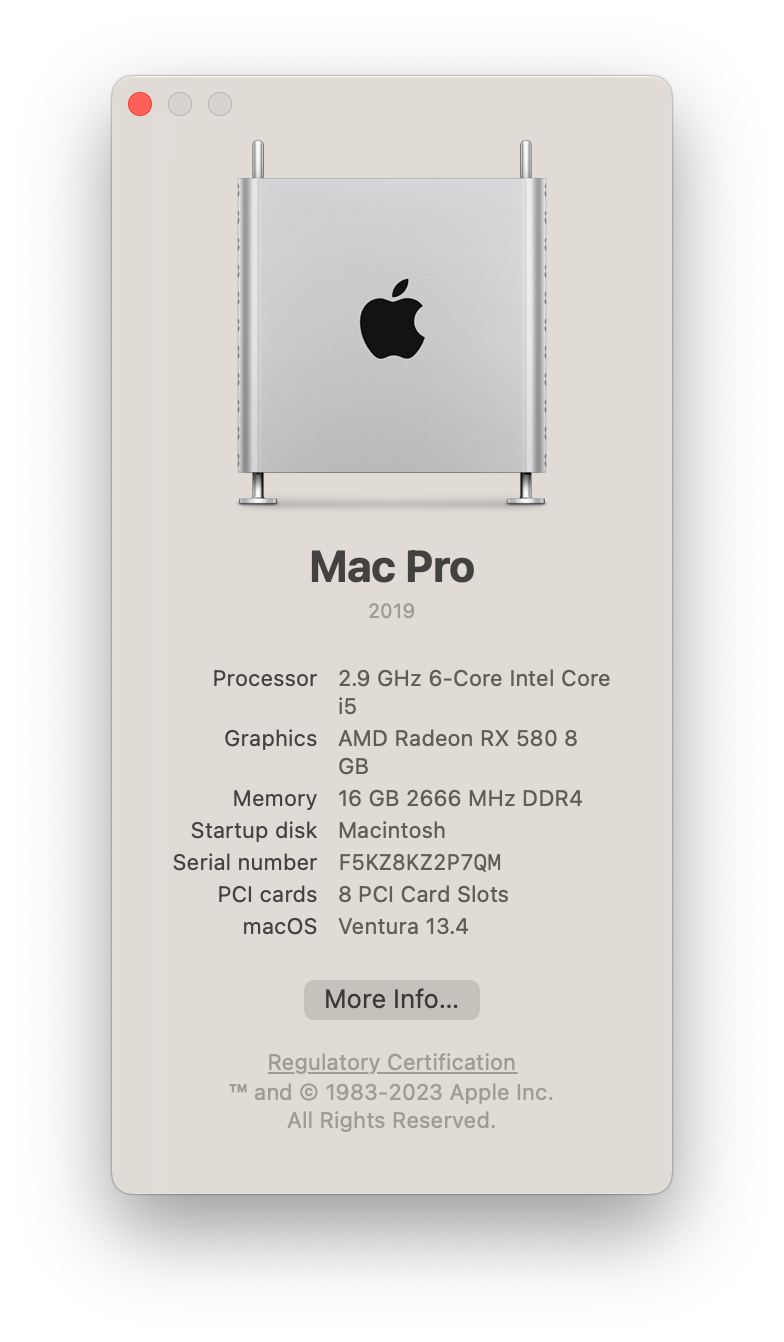
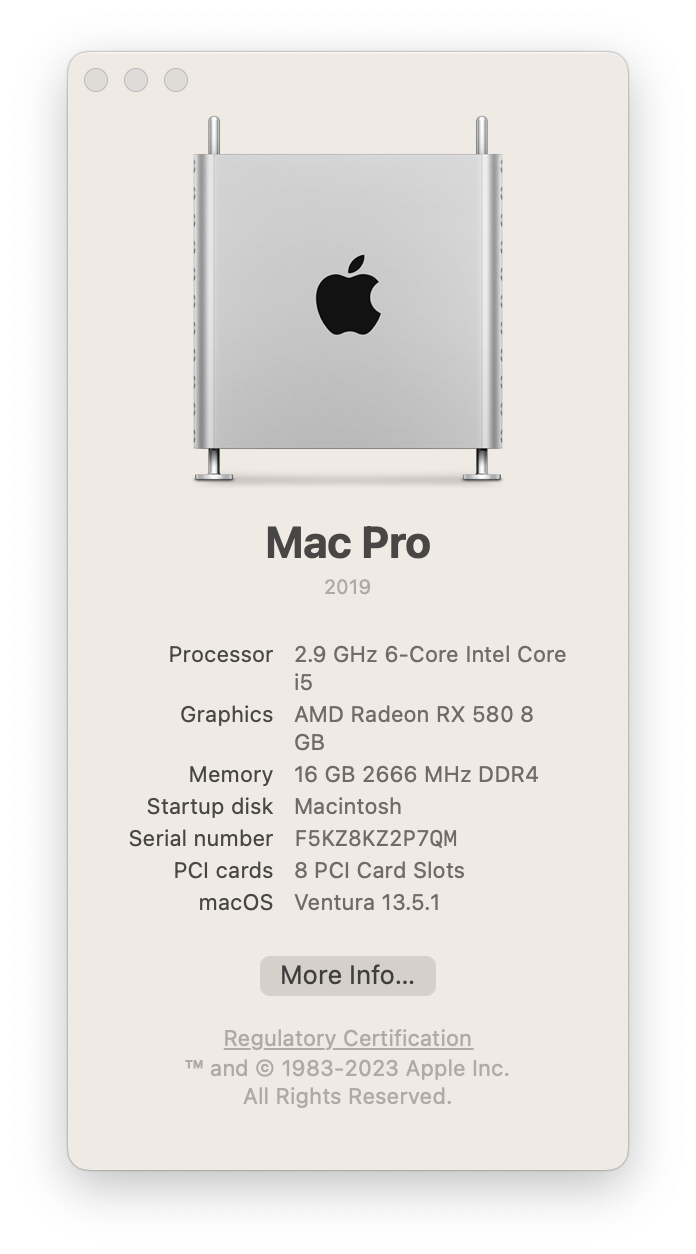
upgrade macOS 13.5.1

diff --git a/README.md b/README.md
@@ -13,7 +13,7 @@
 
 ## 更新
 ![系统版本](./img/Overview.png)
-+ macOS Ventura 13.4
++ macOS Ventura 13.5.1
 + [OpenCore](https://github.com/acidanthera/OpenCorePkg/releases) v0.9.8
 + [OcBinaryData](https://github.com/acidanthera/OcBinaryData)
 + [Lilu](https://github.com/acidanthera/Lilu/releases) v1.6.7
